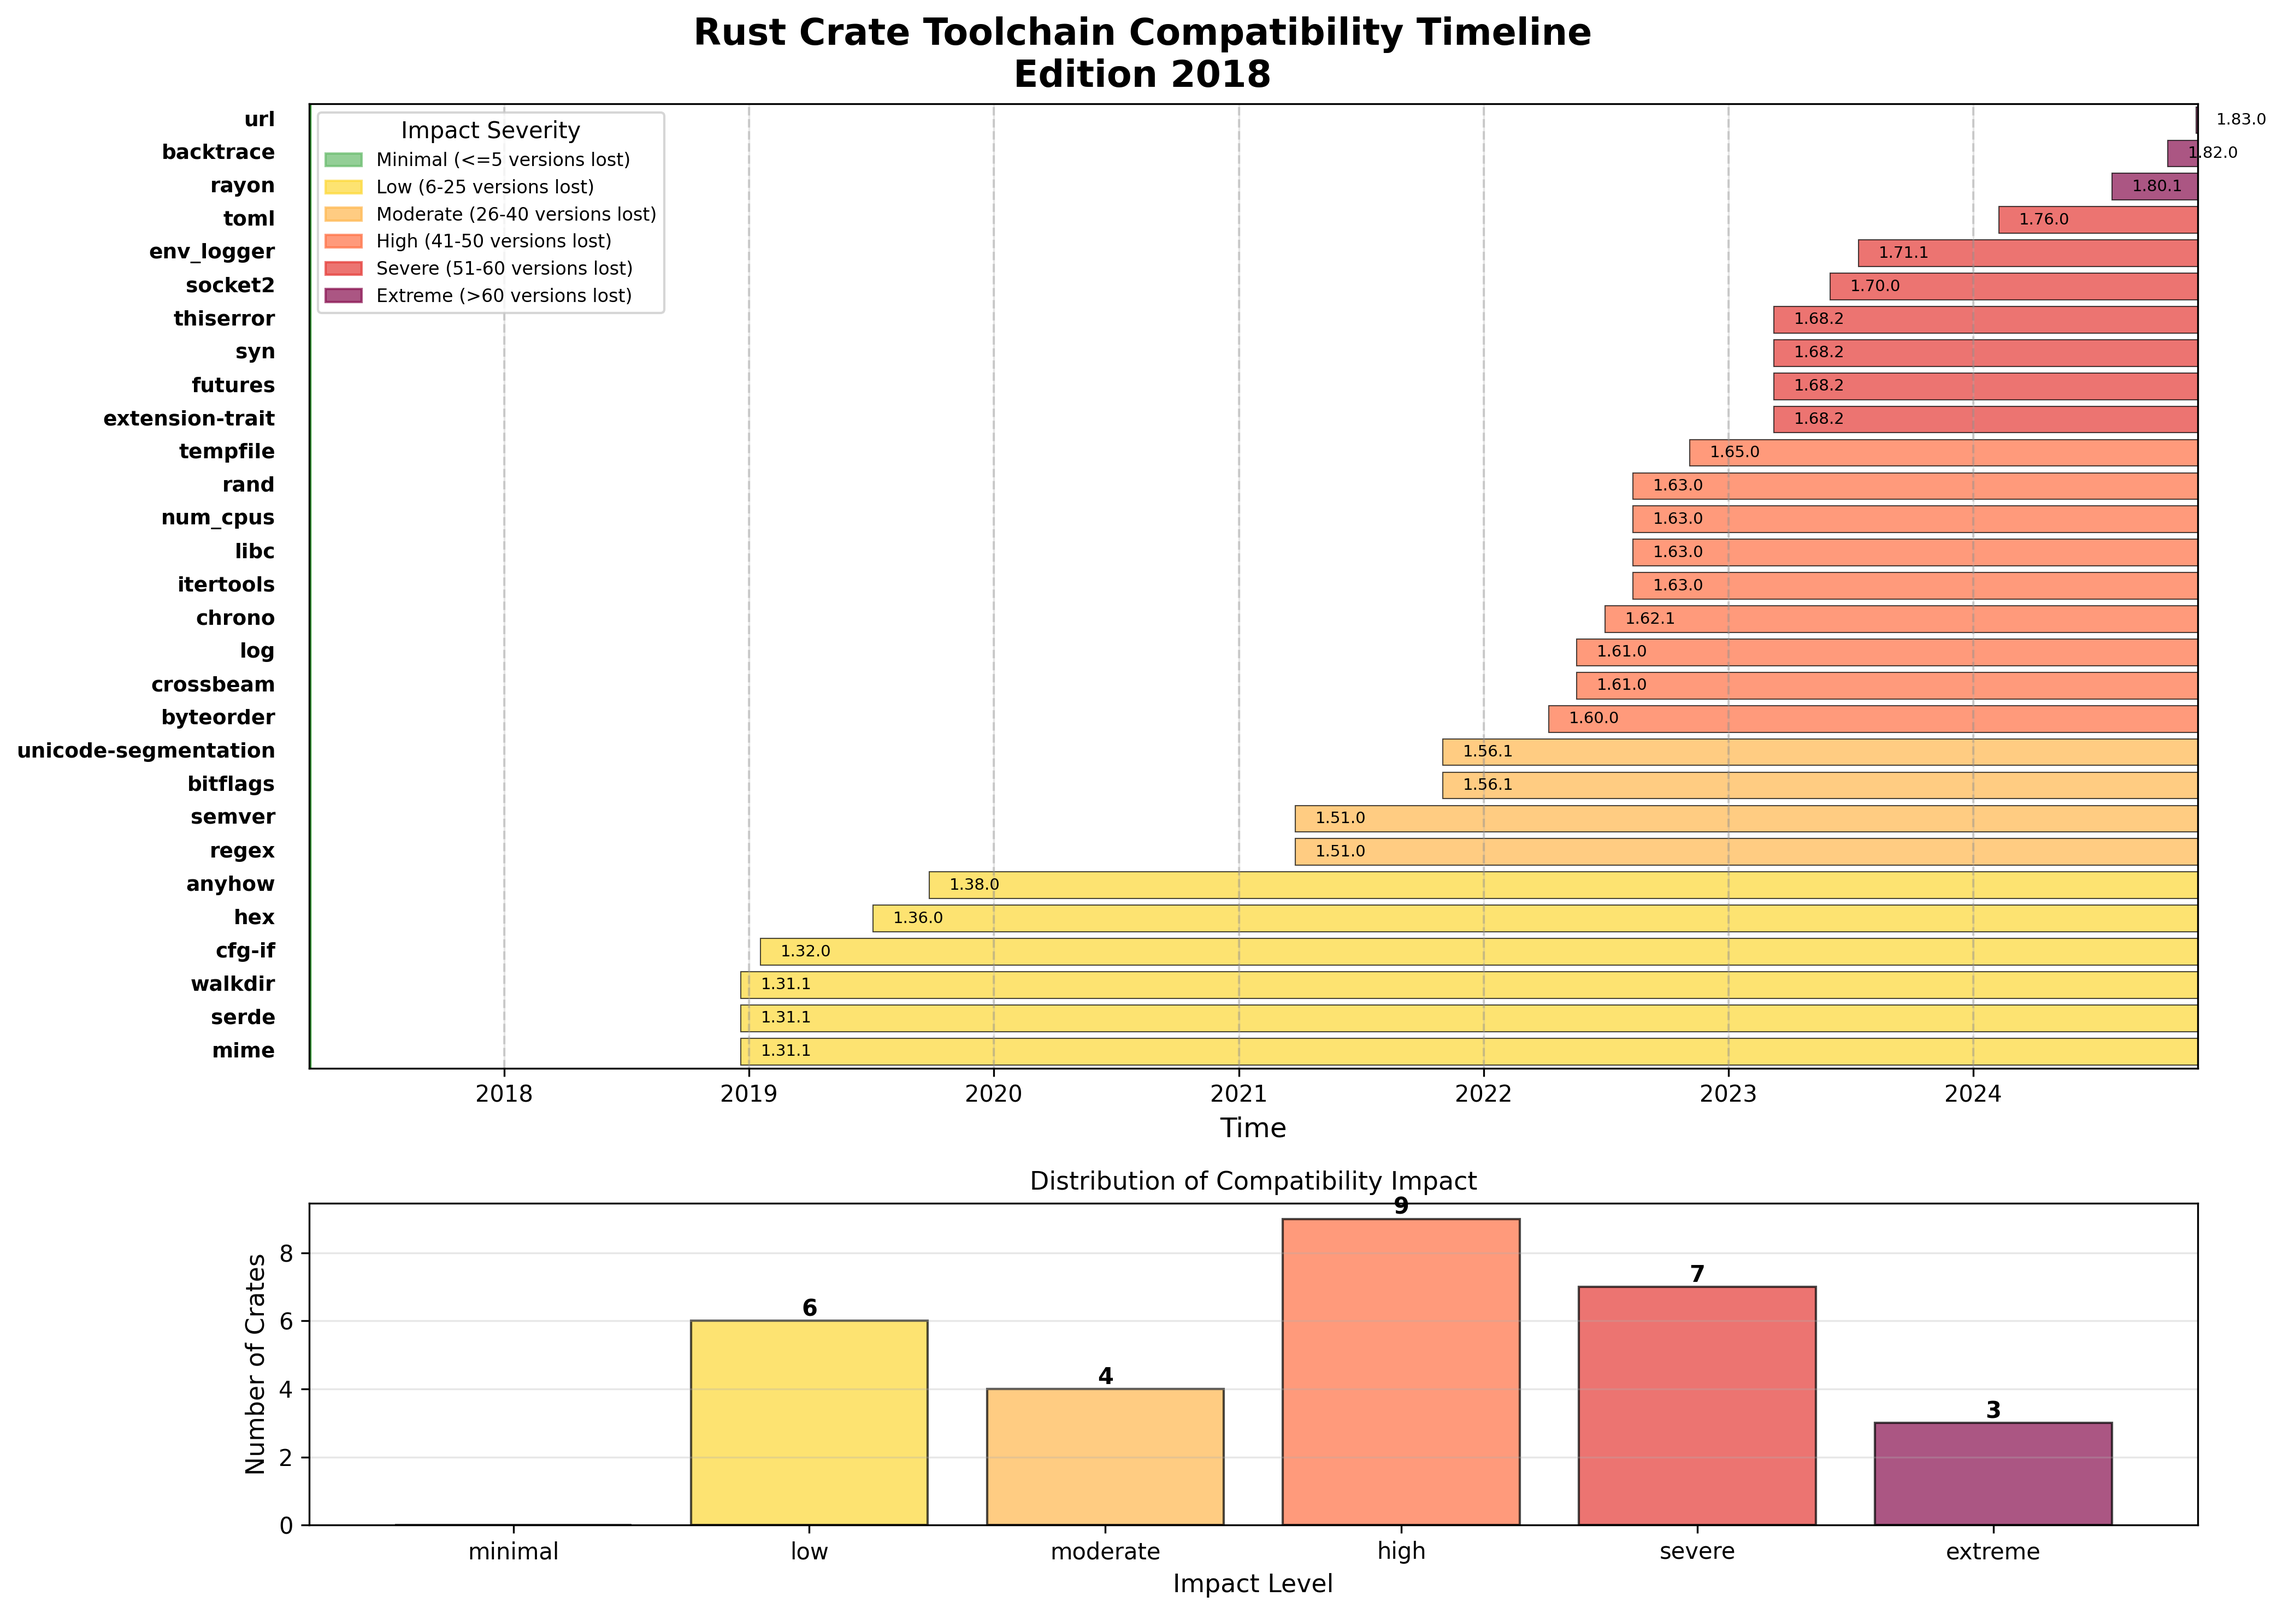
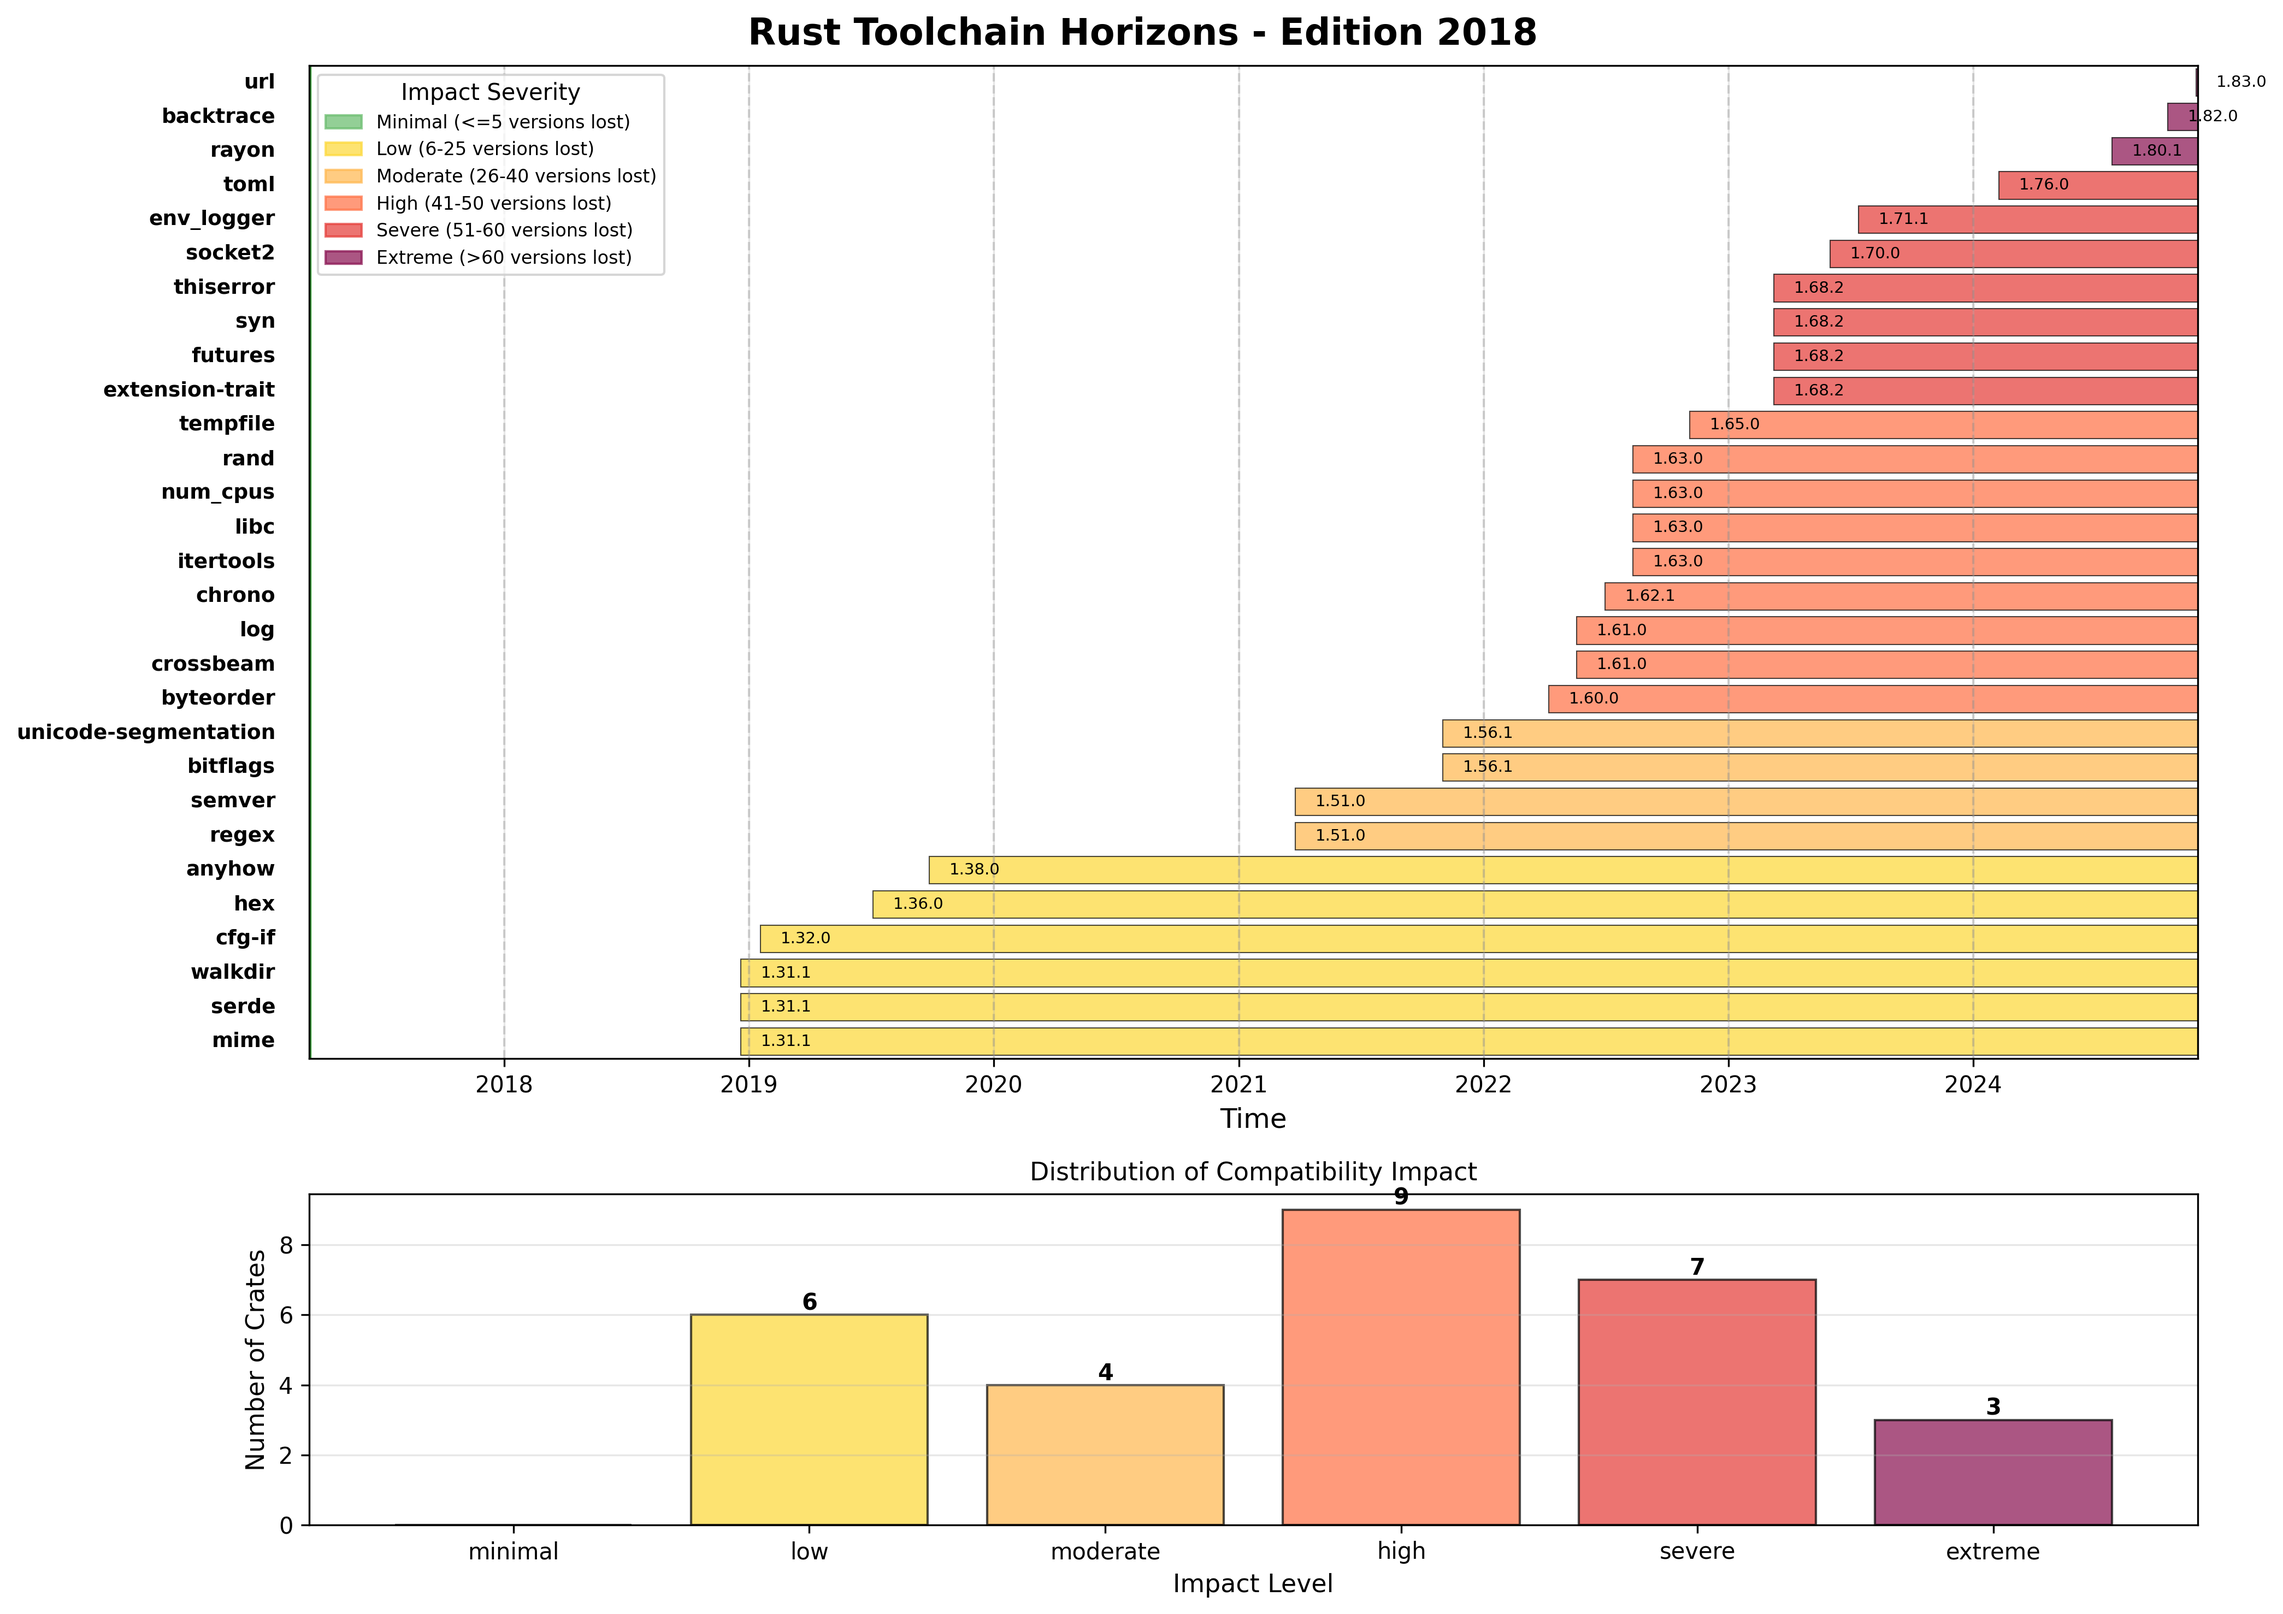
plots

diff --git a/visualize-rust.py b/visualize-rust.py
@@ -175,7 +175,7 @@ color_map = cs.COLOR_MAP
 
 # Create figure
 fig, (ax1, ax2) = plt.subplots(2, 1, figsize=cs.FIGURE_SIZE, gridspec_kw={'height_ratios': cs.HEIGHT_RATIOS})
-fig.suptitle('Rust Crate Toolchain Compatibility Timeline\nEdition 2018', fontsize=int(cs.FONT_TITLE*fs), fontweight='bold')
+fig.suptitle('Rust Toolchain Horizons - Edition 2018', fontsize=int(cs.FONT_TITLE*fs), fontweight='bold')
 
 # Plot 1: Timeline bars
 y_pos = 0

diff --git a/visualize-go.py b/visualize-go.py
@@ -98,7 +98,7 @@ color_map = cs.COLOR_MAP
 
 # Create figure
 fig, (ax1, ax2) = plt.subplots(2, 1, figsize=cs.FIGURE_SIZE, gridspec_kw={'height_ratios': cs.HEIGHT_RATIOS})
-fig.suptitle('Go Package Toolchain Compatibility Timeline\nGo Modules Era', fontsize=int(cs.FONT_TITLE*fs), fontweight='bold')
+fig.suptitle('Go Toolchain Horizons - Modules Era', fontsize=int(cs.FONT_TITLE*fs), fontweight='bold')
 
 # Plot 1: Timeline bars
 y_pos = 0
